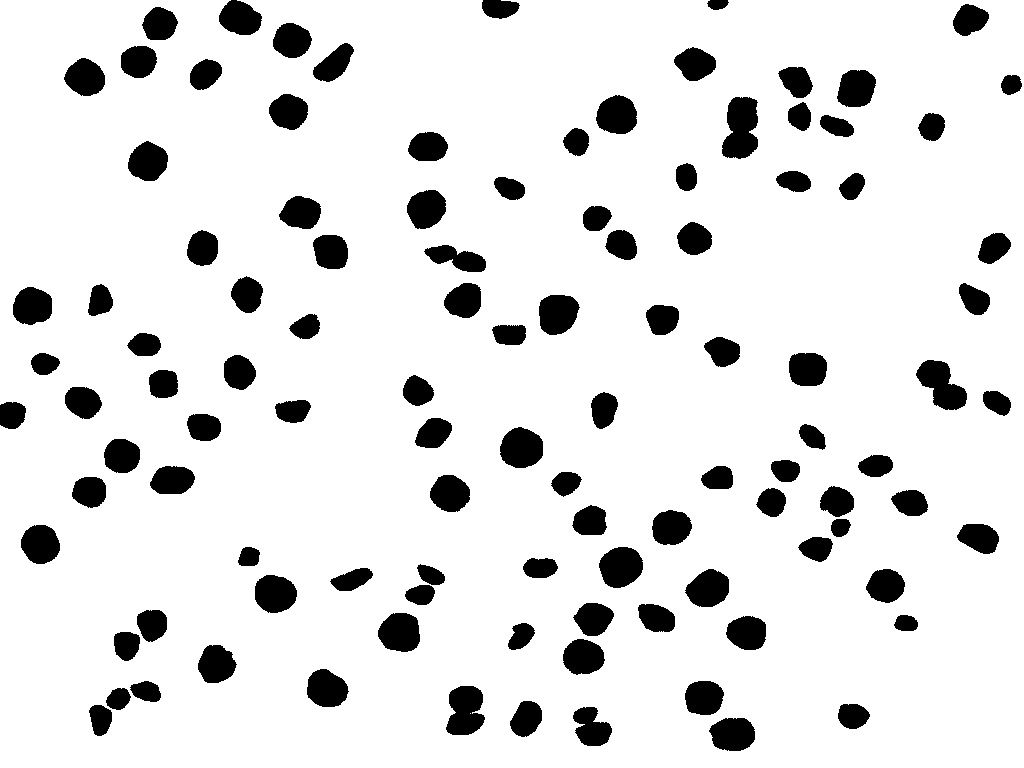
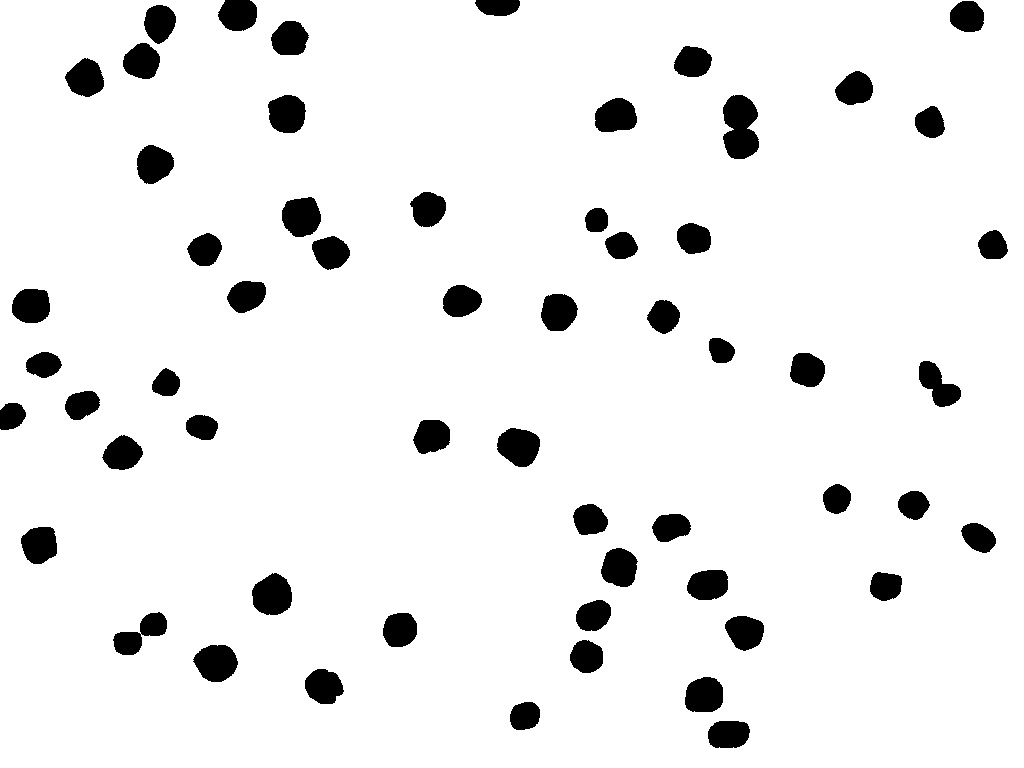
ais mascaras

diff --git a/mask.py b/mask.py
@@ -24,7 +24,7 @@ linha_colorida = [(0,255,255),(255,255,0),(0,255,0),(0,0,255),(205,90,106),
 
 linha_cinza = [(0,0,0),(0,0,0)]
 
-img = cv.imread('2.jpg')
+img = cv.imread('1.jpg')
 
 img_c = cv.imread('1.jpg',0)
 
@@ -75,7 +75,7 @@ while True:
         break
 
     elif k == ord('s'):
-        cv.imwrite('2_mask.jpg', fundo_branco)
+        cv.imwrite('1_mask.jpg', fundo_branco)
 
     elif k == ord('='):
         tam_bola+=1   
